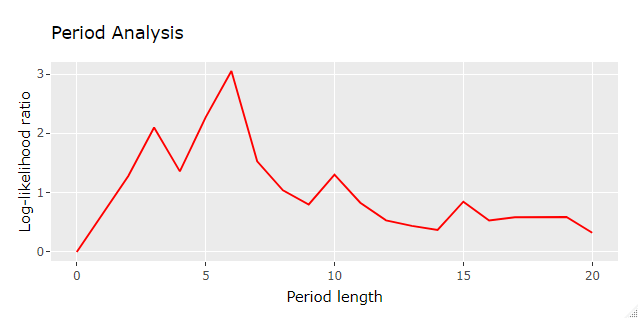
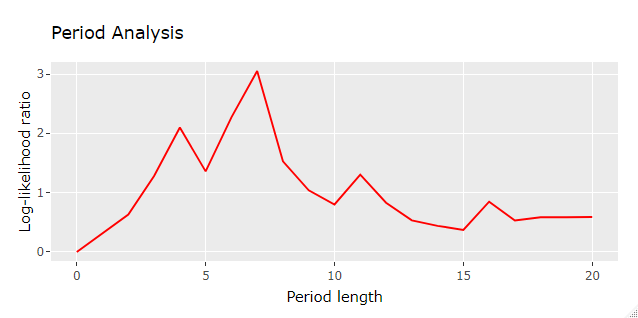
Fixing code and plots: 2020-01-12-likelihood-of-mean-reversion-in-stock-returns.md

diff --git a/_posts/2020-01-12-likelihood-of-mean-reversion-in-stock-returns.md b/_posts/2020-01-12-likelihood-of-mean-reversion-in-stock-returns.md
@@ -12,7 +12,7 @@ The standard rule for calculating a stock returns monthly volatility is to multi
   <br>
 </p>
 
-This rule is derived from an independent log-normal daily returns model. However, if a stochastic process is considered under the influence of mean reversion then this rule is likely to give us exaggerated volatilities.
+This rule is derived from an independent log-normal daily returns model. However, if the stochastic process is considered under the influence of mean reversion then this rule is likely to give us exaggerated volatilities.
 
 Most papers on the subject tend to analyze the effects of mean reversion in larger periods of time (years), but I was curious on whether or not it's also important to take it into account for shorter, intra-month, trading periods.
 
@@ -63,7 +63,7 @@ likelihood <- function(k, n, x) {
   lke <- 0
   offset <- 21
   for(i in offset:length(x)) {
-    m <- if (n == 0) 0 else mean(x[(i - 1 - n):(i - 1)])
+    m <- if (n == 0) 0 else mean(x[(i - n):(i - 1)])
     p <- dnorm(x[i], sd=k[1], mean=(k[2] * m))
     lke <- lke + log(p)
   }
@@ -90,11 +90,11 @@ The resulting `res` list will hold, for each moving average period analyzed, all
 
 ```r
 
-df_factor = data.frame(
+df_factor <- data.frame(
   x = seq(0, max_period), y = sapply(res, function(e) (e[[1]][2]))
 )
 
-p =  ggplot() +
+p <- ggplot() +
   ggtitle("Mean Multiplier Analysis") +
   xlab("Period length") +
   ylab("Multiplier") + 
@@ -135,7 +135,7 @@ ggplotly(p)
 So the best performing model was found to have the following set of parameters:
 * <b>k</b> → -0.518
 * <b>σ</b> → 0.0182
-* <b>N</b> → 6 days
+* <b>N</b> → 7 days
 * <b>Log-likelihood ratio</b> → 3.051
 
 Which raises the question:
@@ -147,16 +147,16 @@ Well, we will find that out in the next section.
 Probability Value
 ============
 
-In statistical hypothesis testing, the probability value or [p-value](https://en.wikipedia.org/wiki/P-value) is the probability of obtaining test results at least as extreme as the results actually observed during the test, assuming, in our case, that there is no autoregressive effect in place. If the p-value is low enough, we can determine, with resonable confidence, that the assumption of "no autoregressive effect" is false.
+In statistical hypothesis testing, the probability value or [p-value](https://en.wikipedia.org/wiki/P-value) is the probability of obtaining test results at least as extreme as the results actually observed during the test, assuming, in our case, that there is no autoregressive effect in place. If the p-value is low enough, we can determine, with resonable confidence, that the non autoregressive model hypothesis, as it stands, is false.
 
-In order to calculate the p-value initially we need to estimate the observed log-likelihood ratio probability distribution under the hypothesis that our process follows a non-autoregressive Gaussian model (control process). So let's replicate the analysis above under this assumption:
+In order to calculate the p-value initially we need to estimate the observed log-likelihood ratio probability distribution under the hypothesis that our process follows a non autoregressive Gaussian model (control process). So let's replicate the analysis above under this assumption:
 
 ```r
 
-iterations = 1000   # number of analysis per period
-max_period = 20     # same number of periods as before
-num_samples = 247   # replicating observed data length (1 year)
-wiener_std = 0.018  # Control model standard deviation
+iterations <- 1000   # number of analysis per period
+max_period <- 20     # same number of periods as before
+num_samples <- 247   # replicating observed data length (1 year)
+wiener_std <- 0.018  # Control model standard deviation
 
 res <- lapply(1:iterations, function(z) {
   
@@ -172,7 +172,7 @@ res <- lapply(1:iterations, function(z) {
 
 ```
 
-Beware that this code may take 30 minutes to complete, or more, dependeding on your notebook configuration. It generates 1000 log-likelihood ratio samples for each period length. The box plot below gives us a qualitative understanding of this output:
+Beware that this code may take 30 minutes to complete running, or more, dependeding on your notebook configuration. It generates 1000 log-likelihood ratio samples for each period length. The box plot below gives us a qualitative understanding of this output:
 
 ```r
 
@@ -225,9 +225,11 @@ p_value <- function (res, n, lke){
 
 ```
 
-Thus, calling this function like so `p_value(res, 6, 3.051)` yields a p-value of 1.665%. Considering the margin of error the p-value is slightly below a typical 5% threshold, which would allow us to assert, with statistical significance, that the best fitted parameter set rejects the non autoregressive model.
+Thus, calling this function like so `p_value(res, 7, 3.051)` yields a p-value of 1.665%. Considering the margin of error the p-value is slightly below a typical 5% threshold, which would allow us to assert, with statistical significance, that the best fitted parameter set rejects the non autoregressive model as it stands.
 
-Nevertheless, the best fitted parameters for all other period lengths fail to pass this significance test when the margin of error is taken into account. Reducing the assertivity of this analysis.
+Nevertheless, the best fitted parameters for all other period lengths fail to pass this significance test when the margin of error is taken into account. This is, at a minimum, intuitively odd, as how can a seven days period pass the significance test and a six (or eight) days period don't, was it a fluke?
+
+To clear this doubt I ran the analysis again for the remaining data sets, unfortunately with weaker results, as none of the moving average periods analyzed passed the significance test, which I discuss in the conclusion below.
 
 Conclusion
 ============
